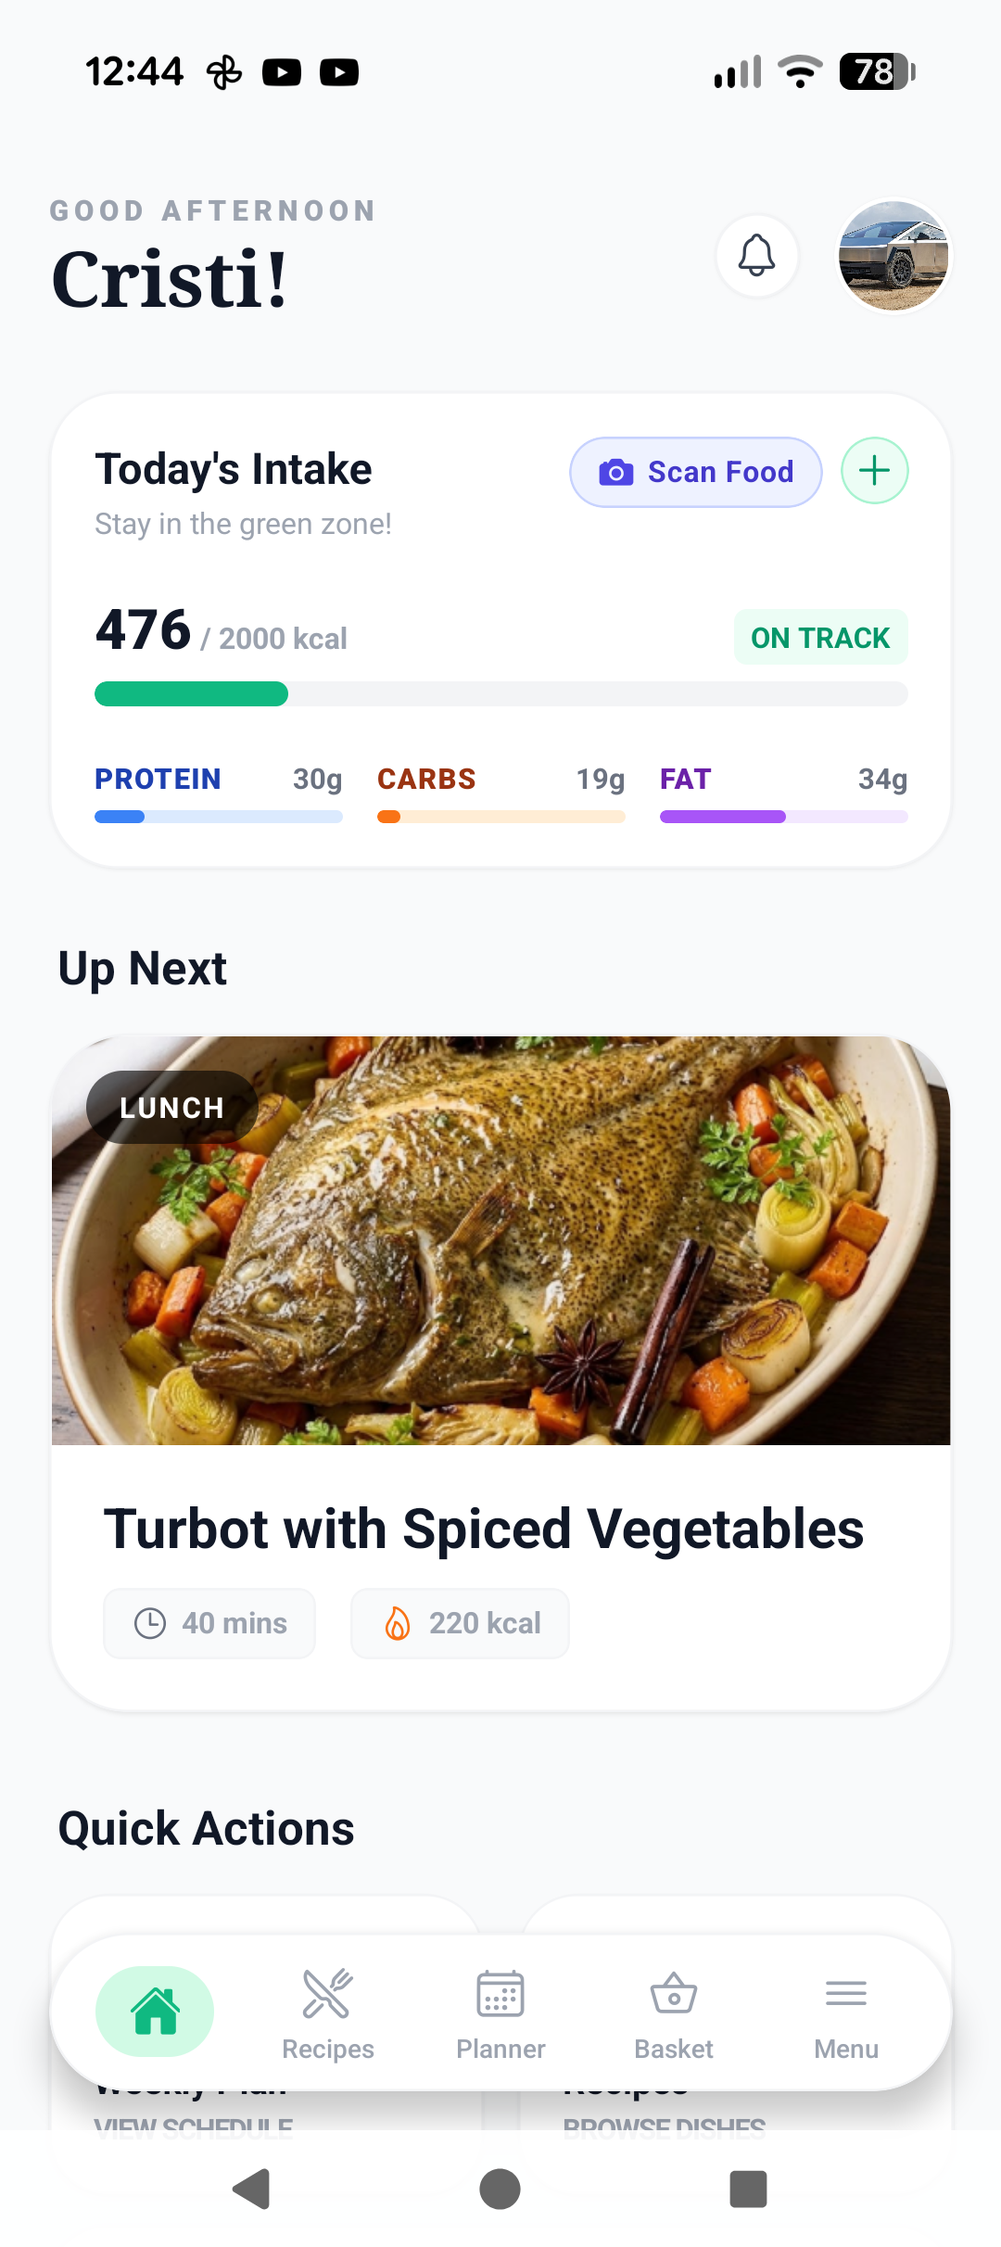
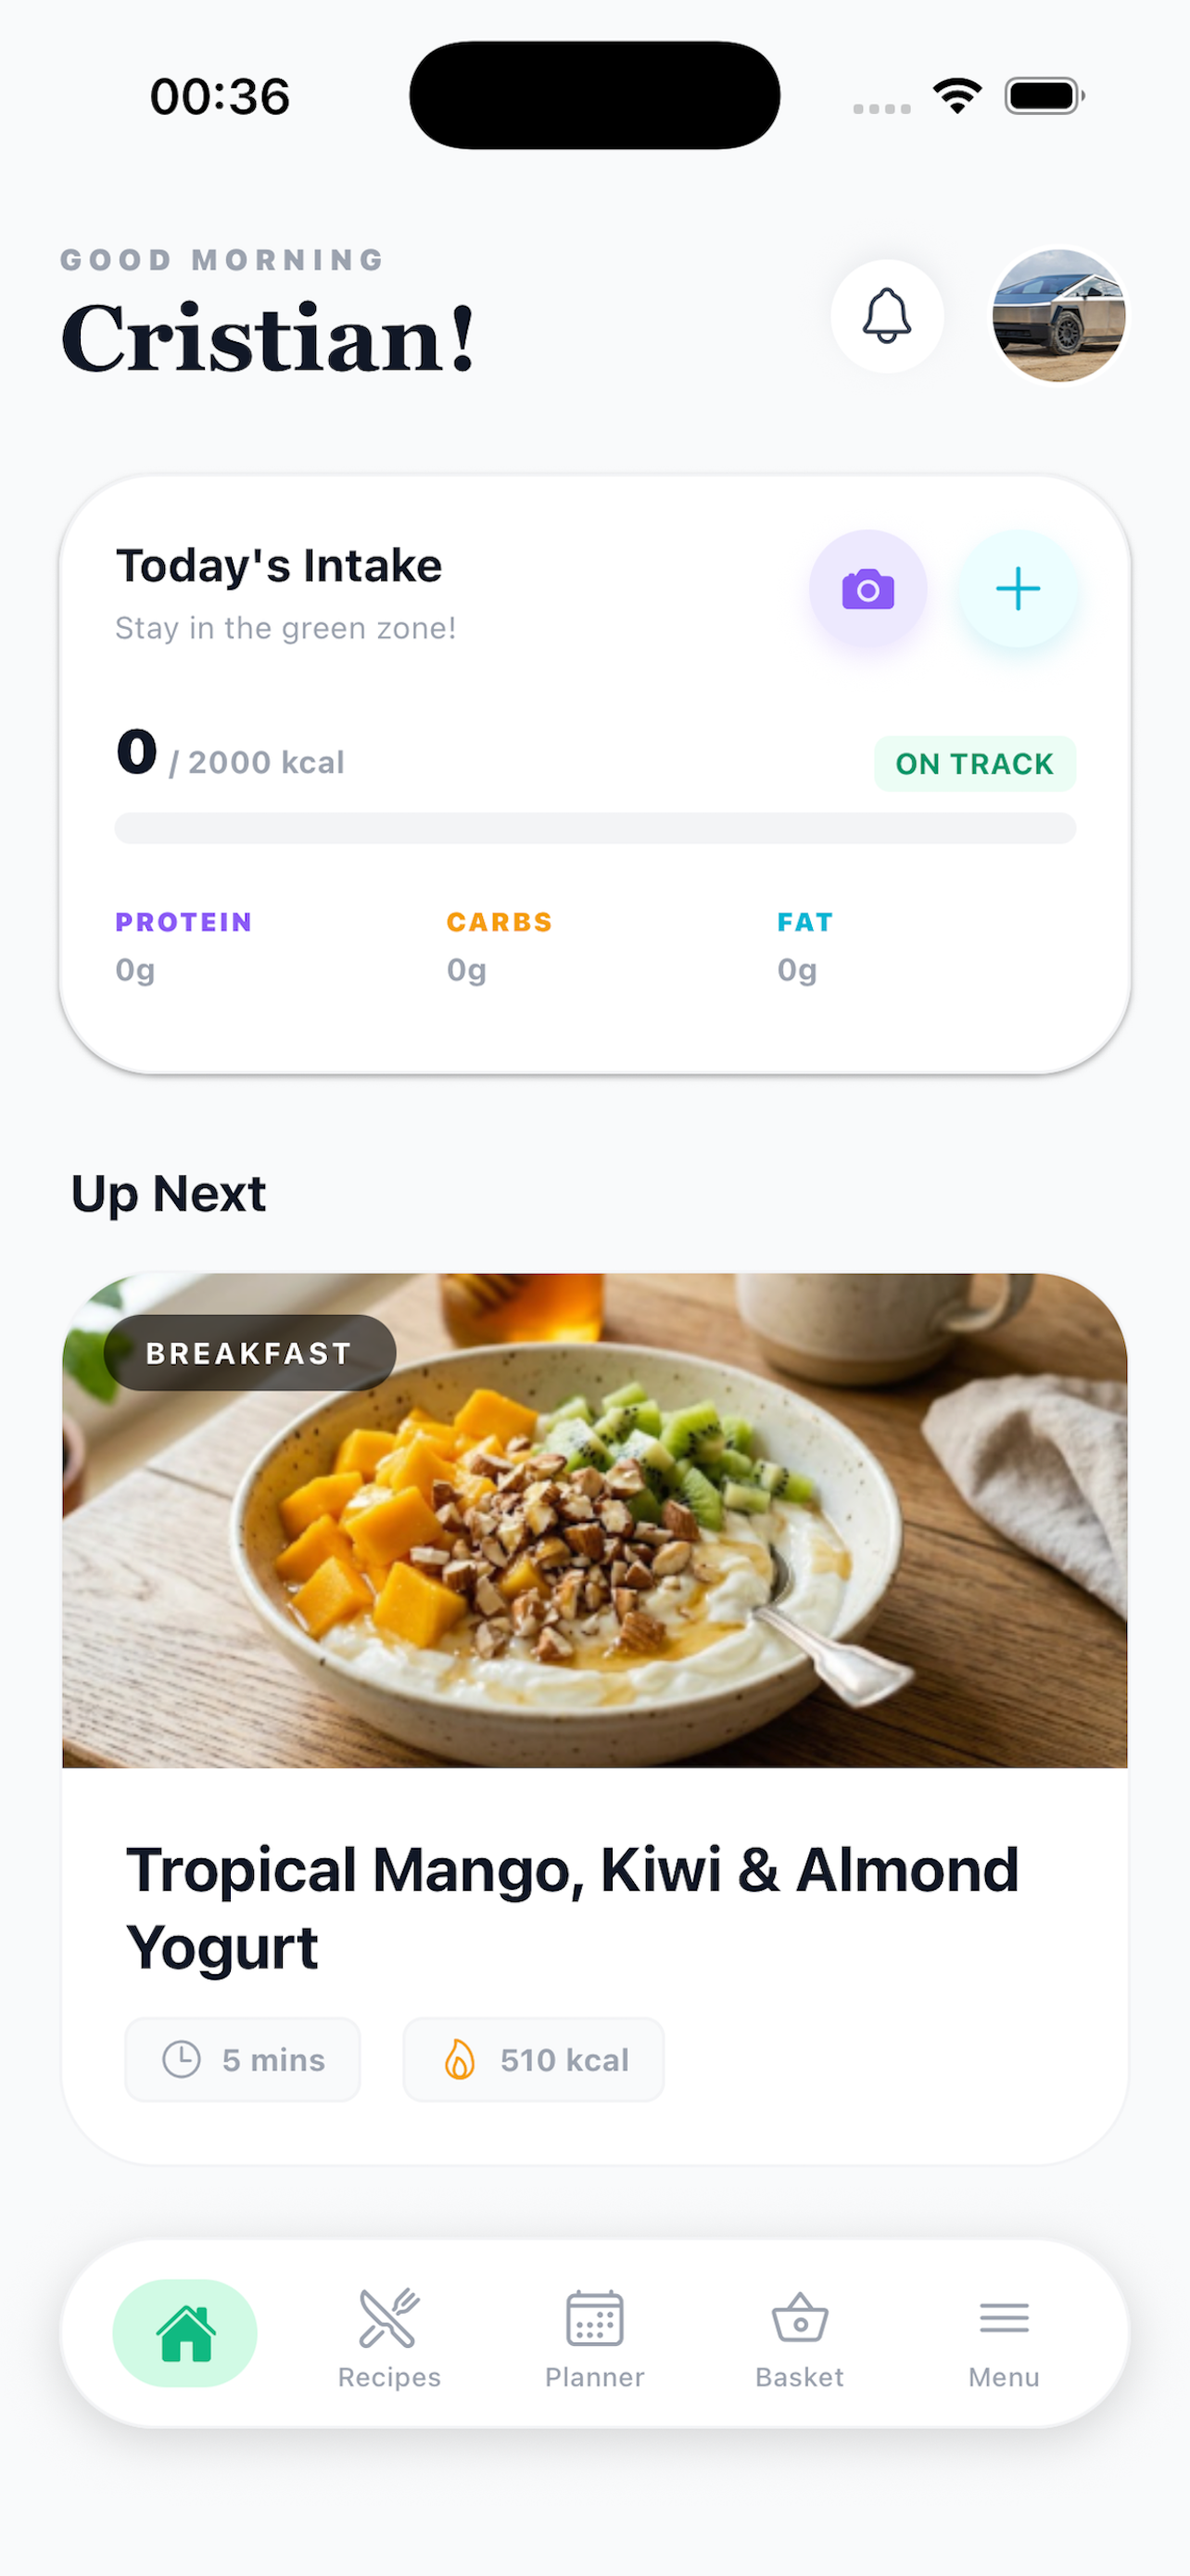
perf: add priority prop to About image to fix LCP warning

diff --git a/novanutri-nextjs/components/Hero.tsx b/novanutri-nextjs/components/Hero.tsx
@@ -2,7 +2,7 @@ import Image from "next/image";
 
 export default function Hero() {
   return (
-    <main className="grow flex items-center justify-center px-6 py-12 md:py-24 overflow-hidden relative">
+    <main id="hero" className="grow flex items-center justify-center px-6 py-12 md:py-24 overflow-hidden relative" >
       
       {/* Background Glow */}
       <div className="absolute top-1/2 left-1/2 -translate-x-1/2 -translate-y-1/2 w-200 h-200 bg-primary/5 rounded-full blur-3xl -z-10"></div>
@@ -45,6 +45,7 @@ export default function Hero() {
                     src="/google-play-badge.png" 
                     alt="Get it on Google Play" 
                     fill 
+                    sizes="192px"
                     className="object-contain"
                   />
                 </div>
@@ -52,16 +53,17 @@ export default function Hero() {
 
               {/* App Store Button */}
               <a 
-                href="https://apps.apple.com/us/app/riov-mediterranean-meal-plan/id6770679057" 
+                href="/download" 
                 target="_blank" 
                 rel="noopener noreferrer"
                 className="active:scale-95 transition-transform hover:opacity-90 shrink-0"
               >
                 <div className="relative w-48 h-14">
                   <Image 
-                    src="/app-store-badge.svg" // Ensure you add the apple badge asset to your public folder
+                    src="/app-store-badge.svg" 
                     alt="Download on the App Store" 
                     fill 
+                    sizes="192px"
                     className="object-contain"
                   />
                 </div>
@@ -75,6 +77,7 @@ export default function Hero() {
                   src="/qr-code.svg" 
                   alt="Scan to download Riov" 
                   fill 
+                  sizes="200px"
                   className="object-cover rounded-xl"
                 />
               </div>
@@ -97,6 +100,7 @@ export default function Hero() {
                     src="/hero-mockup.png"
                     alt="Riov App Interface"
                     fill
+                    sizes="1048px"
                     className="object-cover object-top" 
                     priority 
                   />

diff --git a/novanutri-nextjs/components/Header.tsx b/novanutri-nextjs/components/Header.tsx
@@ -21,9 +21,7 @@ export default function Header() {
       {/* Navigation Menu */}
       <nav className="hidden md:flex gap-8 text-body font-medium items-center">
       <a 
-  href="/download" 
-  target="_blank" 
-  rel="noopener noreferrer"
+  href="#hero"
   className="bg-primary hover:bg-primary-dark text-white px-5 py-2.5 rounded-xl font-bold transition-all shadow-md active:scale-95"
 >
   Get the App

diff --git a/novanutri-nextjs/components/About.tsx b/novanutri-nextjs/components/About.tsx
@@ -11,7 +11,9 @@ export default function About() {
             src="/about-image.png"
             alt="Family enjoying a healthy meal together" 
             fill 
+            sizes="1048px"
             className="object-cover"
+            priority 
           /> 
         </div>
 
